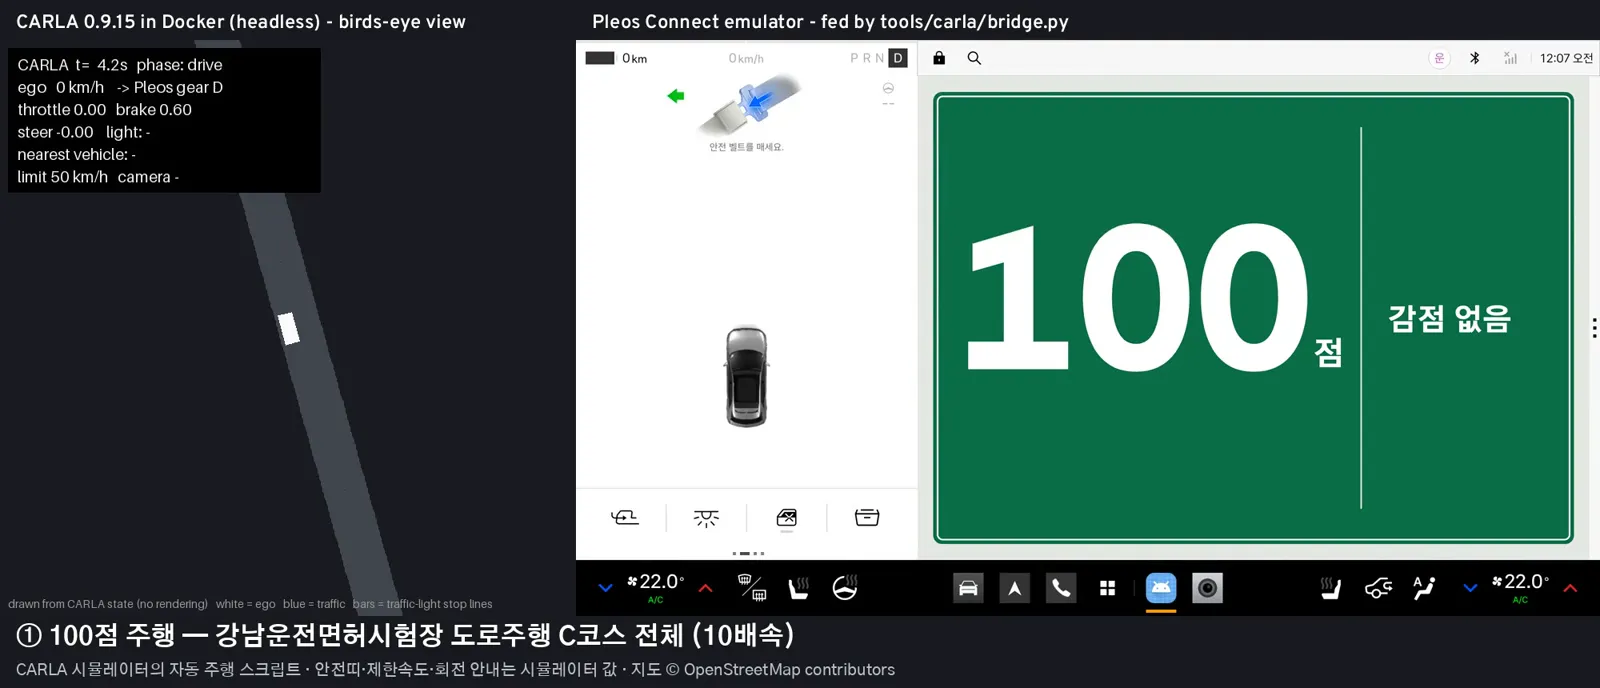
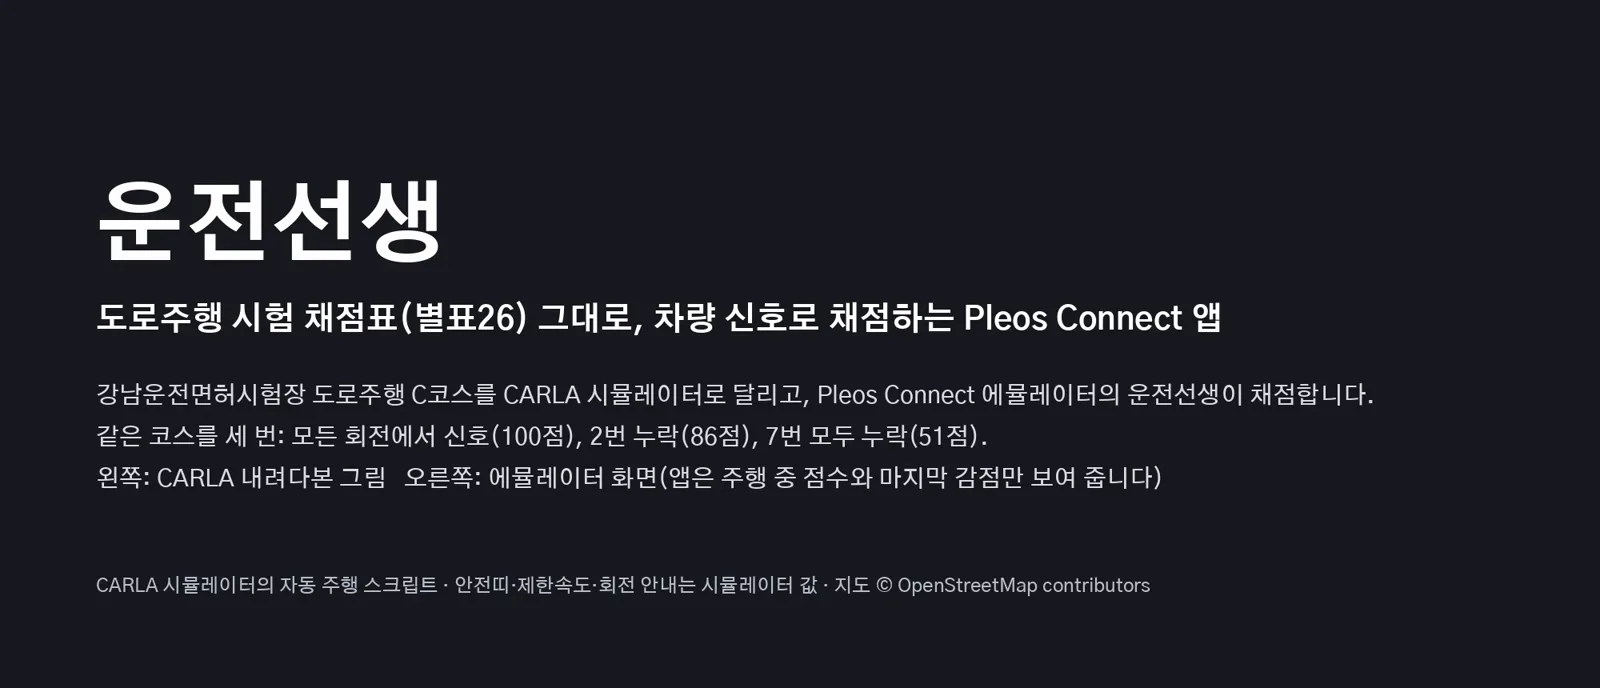
fix: apply the landing page's finish review
Drop the hero glow and the white card shells, disclose the simulator under
the head unit, keep costs and headings from breaking badly, re-cut the
summary poster without its caption band, add pause controls for the hero
loop and the map replay, and announce a run once instead of every frame.

diff --git a/site/site.css b/site/site.css
@@ -137,7 +137,7 @@ p { margin: 0; text-wrap: pretty; }
 
 /* ---------- hero ---------- */
 .hero {
-  position: relative; isolation: isolate; overflow: hidden;
+  position: relative; isolation: isolate; overflow-x: clip; /* sideways only: the head unit's shadow falls into the next section */
   padding: clamp(3rem, 1.6rem + 4.4vw, 5.25rem) var(--gutter) 0;
   text-align: center;
 }
@@ -149,13 +149,9 @@ p { margin: 0; text-wrap: pretty; }
   background-size: 72px 72px; background-position: center top;
   mask-image: radial-gradient(ellipse 70% 60% at 50% 38%, #000 30%, transparent 78%);
 }
-.hero::after { /* the guide-green light the head unit sits in */
-  content: ""; position: absolute; z-index: -1; left: 50%; bottom: -12%; width: min(1100px, 120vw); aspect-ratio: 2 / 1; translate: -50% 0;
-  background: radial-gradient(closest-side, rgb(11 107 71 / 0.2), rgb(10 79 160 / 0.06) 60%, transparent);
-  filter: blur(20px);
-}
 .hero__copy { max-width: 60rem; margin: 0 auto; }
 .hero h1 { font-size: var(--text-hero); letter-spacing: -0.04em; line-height: 1.1; }
+@media (max-width: 640px) { .hero h1 br { display: none; } }
 .hero__lede { margin: 1.4rem auto 0; max-width: 34em; font-size: var(--text-lede); color: var(--concrete-ink-muted); }
 .hero__actions { margin-top: 2.1rem; display: flex; gap: 0.75rem; justify-content: center; flex-wrap: wrap; }
 .hero__meta { margin-top: 1.1rem; font-size: 0.875rem; font-weight: 700; color: var(--concrete-ink-muted); letter-spacing: 0.01em; }
@@ -175,6 +171,20 @@ p { margin: 0; text-wrap: pretty; }
   to { opacity: 1; transform: none; }
 }
 
+.stage__caption { margin-top: 1rem; display: flex; justify-content: center; align-items: center; gap: 0.75rem; flex-wrap: wrap; font-size: 0.8125rem; font-weight: 700; color: var(--concrete-ink-muted); }
+.pause {
+  display: inline-flex; align-items: center; gap: 0.4rem; min-height: 2.25rem; padding: 0 0.85rem; border: 0; border-radius: 999px; cursor: pointer;
+  font: inherit; font-weight: 700; font-size: 0.8125rem; color: var(--concrete-ink); background: rgb(21 25 26 / 0.07);
+  transition: background-color var(--duration-fast);
+}
+.pause:hover { background: rgb(21 25 26 / 0.12); }
+.pause svg { width: 0.95rem; height: 0.95rem; fill: currentColor; }
+.pause .pause__play { display: none; }
+.pause[aria-pressed="true"] .pause__play { display: block; }
+.pause[aria-pressed="true"] .pause__stop { display: none; }
+.pause--night { color: var(--asphalt-ink); background: rgb(227 231 228 / 0.08); }
+.pause--night:hover { background: rgb(227 231 228 / 0.14); }
+.sr-only { position: absolute; width: 1px; height: 1px; margin: -1px; padding: 0; overflow: hidden; clip-path: inset(50%); white-space: nowrap; border: 0; }
 .float {
   position: absolute; z-index: 2; display: flex; align-items: center; gap: 0.75rem; text-align: left;
   opacity: 0; translate: 0 14px; filter: blur(4px);
@@ -190,7 +200,7 @@ p { margin: 0; text-wrap: pretty; }
 .float__text { display: grid; line-height: 1.35; }
 .float__text strong { font-weight: 800; font-size: 1rem; }
 .float__text span { font-size: 0.8125rem; color: var(--sign-white-muted); }
-.float__cost { margin-left: auto; padding-left: 0.5rem; font-family: var(--font-num); font-weight: 800; font-size: 1.5rem; }
+.float__cost { flex: none; white-space: nowrap; margin-left: auto; padding-left: 0.5rem; font-family: var(--font-num); font-weight: 800; font-size: 1.5rem; }
 .float--voice {
   right: -7%; top: 12%; padding: 0.8rem 1.1rem; max-width: 19rem;
   background: var(--plate-white); color: var(--plate-ink); border-radius: 16px; font-weight: 700; font-size: 0.9375rem; line-height: 1.4;
@@ -227,14 +237,14 @@ p { margin: 0; text-wrap: pretty; }
 .section-title { font-size: var(--text-h2); letter-spacing: -0.035em; }
 .features { max-width: calc(var(--content) + 2 * var(--gutter)); margin: 0 auto; padding: var(--space-section) var(--gutter) 0; }
 .bento { margin-top: clamp(2rem, 1.4rem + 2vw, 3.25rem); display: grid; grid-template-columns: repeat(12, minmax(0, 1fr)); gap: clamp(1rem, 0.6rem + 1.4vw, 1.75rem); }
-.feat { grid-column: span 6; display: grid; gap: 1.5rem; align-content: start; padding: clamp(1.25rem, 0.8rem + 1.6vw, 2rem); background: var(--plate-white); border-radius: 24px; box-shadow: 0 1px 0 rgb(21 25 26 / 0.04), 0 18px 40px -32px rgb(16 19 18 / 0.35); }
+.feat { grid-column: span 6; display: grid; gap: 1.25rem; align-content: start; }
 .feat:nth-child(2) { grid-column: span 5; }
 .feat:nth-child(3) { grid-column: span 7; }
-.feat--wide { grid-column: 1 / -1; grid-template-columns: minmax(0, 1.45fr) minmax(0, 1fr); align-items: center; gap: clamp(1.5rem, 1rem + 3vw, 4rem); background: var(--concrete); box-shadow: none; padding: clamp(1.25rem, 0.8rem + 2vw, 2.75rem); }
-.feat--honest { grid-column: 1 / -1; background: transparent; box-shadow: inset 0 0 0 2px rgb(21 25 26 / 0.12); }
+.feat--wide { grid-column: 1 / -1; grid-template-columns: minmax(0, 1.45fr) minmax(0, 1fr); align-items: center; gap: clamp(1.5rem, 1rem + 3vw, 4rem); background: var(--concrete); border-radius: 24px; padding: clamp(1.25rem, 0.8rem + 2vw, 2.75rem); }
+.feat--honest { grid-column: 1 / -1; padding: clamp(1.25rem, 0.8rem + 1.6vw, 2rem); border-radius: 24px; box-shadow: inset 0 0 0 2px rgb(21 25 26 / 0.12); }
 .feat h3 { font-size: var(--text-h3); letter-spacing: -0.02em; }
 .feat--wide h3 { font-size: clamp(1.625rem, 1.2rem + 1.6vw, 2.5rem); letter-spacing: -0.03em; }
-.feat__text p { margin-top: 0.75rem; color: var(--concrete-ink-muted); max-width: 36em; }
+.feat__text p { margin-top: 0.6rem; color: var(--concrete-ink-muted); max-width: 36em; }
 .quote { display: flex; gap: 0.7rem; align-items: flex-start; margin-top: 1.4rem !important; padding: 1rem 1.1rem; border-radius: 14px; background: var(--plate-white); color: var(--concrete-ink) !important; font-weight: 700; font-size: 0.9375rem; }
 .quote svg { flex: none; width: 1.4rem; height: 1.4rem; margin-top: 0.1rem; fill: none; stroke: var(--guide-green); stroke-width: 2; stroke-linecap: round; stroke-linejoin: round; }
 .quote svg path:first-child { fill: var(--guide-green); }
@@ -270,7 +280,8 @@ p { margin: 0; text-wrap: pretty; }
 .run__label { font-weight: 700; font-size: 0.9375rem; }
 .run[aria-pressed="true"] { background: #1E2423; box-shadow: inset 0 0 0 2px var(--signal-green); }
 .run--fail[aria-pressed="true"] { box-shadow: inset 0 0 0 2px var(--caution-yellow); }
-.readout { margin-top: 2rem; display: flex; align-items: flex-end; gap: 1.75rem; }
+.readout { margin-top: 2rem; display: flex; align-items: flex-end; gap: 1.75rem; flex-wrap: wrap; }
+.readout .pause { margin-left: auto; align-self: center; }
 .readout__score { font-family: var(--font-num); font-weight: 800; font-size: clamp(4rem, 2.6rem + 5vw, 6.5rem); line-height: 0.85; letter-spacing: -0.04em; font-variant-numeric: tabular-nums; color: var(--signal-green); transition: color var(--duration-normal); }
 .readout__score small { font-family: var(--font-ko); font-size: 0.28em; letter-spacing: 0; margin-left: 0.15em; color: var(--asphalt-ink-muted); }
 .readout.is-failing .readout__score { color: var(--caution-yellow); }
@@ -344,7 +355,7 @@ p { margin: 0; text-wrap: pretty; }
 .prow__name { display: grid; line-height: 1.4; }
 .prow__name strong { font-weight: 800; }
 .prow__name span { font-size: 0.875rem; color: var(--sign-white-muted); }
-.prow__cost { font-family: var(--font-num); font-weight: 800; font-size: 1.25rem; padding-top: 0.05rem; }
+.prow__cost { white-space: nowrap; font-family: var(--font-num); font-weight: 800; font-size: 1.25rem; padding-top: 0.05rem; }
 .prow--chapter { grid-template-columns: 3.3rem minmax(0, 1fr) auto; }
 .prow__play { width: 1.25rem; height: 1.25rem; margin-top: 0.15rem; fill: var(--sign-white); opacity: 0.75; }
 .empty { padding: 1.25rem 0.25rem 0.5rem; }
@@ -359,7 +370,7 @@ p { margin: 0; text-wrap: pretty; }
 .step .shot { width: 100%; }
 .step__road { --pad: clamp(0.6rem, 0.3rem + 1vw, 1rem); position: relative; isolation: isolate; justify-self: stretch; display: flex; align-items: center; height: 2.75rem; margin: 1.25rem 0 1rem; padding-left: 0.6rem; }
 .step__road::before { /* the road the steps sit on, joined across the gaps */
-  content: ""; position: absolute; z-index: -1; inset: 0 calc(-1 * var(--pad));
+  content: ""; position: absolute; z-index: -1; inset: 0 calc(-1 * var(--pad) - 1px);
   background: linear-gradient(to bottom, transparent calc(50% - 4px), var(--caution-yellow) calc(50% - 4px) calc(50% - 1.5px),
     transparent calc(50% - 1.5px) calc(50% + 1.5px), var(--caution-yellow) calc(50% + 1.5px) calc(50% + 4px), transparent calc(50% + 4px)), var(--road);
 }

diff --git a/site/site.js b/site/site.js
@@ -40,6 +40,21 @@ function svg(tag, attrs = {}) {
   return node;
 }
 
+/** A pause/play pill for looping motion (WCAG 2.2.2). onChange(paused) runs on every press. */
+function pauseButton(name, onChange) {
+  const button = document.querySelector(`[data-pause="${name}"]`);
+  if (!button) return { paused: () => false };
+  const label = button.querySelector("span");
+  let paused = false;
+  button.addEventListener("click", () => {
+    paused = !paused;
+    button.setAttribute("aria-pressed", String(paused));
+    label.textContent = paused ? "재생" : "멈춤";
+    onChange(paused);
+  });
+  return { paused: () => paused };
+}
+
 /* ---------- hero: the plates appear when the app on screen deducts ---------- */
 function initHero() {
   const video = document.querySelector(".unit__video");
@@ -55,7 +70,11 @@ function initHero() {
   }
   video.addEventListener("timeupdate", () => show(video.currentTime >= PENALTY_ON && video.currentTime < PENALTY_OFF));
   const play = () => video.play().catch(() => show(true)); // autoplay refused: keep the poster and the plates
-  new IntersectionObserver(([entry]) => (entry.isIntersecting ? play() : video.pause()), { threshold: 0.05 }).observe(video);
+  const control = pauseButton("hero", (paused) => (paused ? video.pause() : play()));
+  new IntersectionObserver(([entry]) => {
+    if (!entry.isIntersecting) video.pause();
+    else if (!control.paused()) play();
+  }, { threshold: 0.05 }).observe(video);
 }
 
 /* ---------- course replay ---------- */
@@ -80,15 +99,29 @@ async function initReplay() {
   }
   const scene = drawMap(map, data);
   const replay = createReplay(scene, data);
+  const status = document.querySelector('[data-readout="status"]');
+  const control = pauseButton("replay", (paused) => (paused ? replay.pause() : replay.resume()));
+  const announce = (id) => {
+    const run = RUNS[id];
+    const missed = run.missed.length ? `${run.missed.join(", ")}번째 회전에서 방향지시등을 켜지 않아 감점 ${run.missed.length}건` : "일곱 번의 회전 모두 신호, 감점 없음";
+    status.textContent = `${run.score}점 주행: ${missed}. ${run.score >= 70 ? "합격" : "불합격"}.`;
+  };
   document.querySelectorAll(".run").forEach((button) => {
     button.addEventListener("click", () => {
       document.querySelectorAll(".run").forEach((b) => b.setAttribute("aria-pressed", String(b === button)));
-      replay.select(button.dataset.run);
+      replay.select(button.dataset.run, control.paused());
+      announce(button.dataset.run);
     });
   });
-  replay.select("100");
-  new IntersectionObserver(([entry]) => (entry.isIntersecting ? replay.resume() : replay.pause()), { threshold: 0.2 }).observe(map);
-  document.addEventListener("visibilitychange", () => (document.hidden ? replay.pause() : replay.resume()));
+  replay.select("100", false);
+  const visible = { map: false };
+  new IntersectionObserver(([entry]) => {
+    visible.map = entry.isIntersecting;
+    if (!visible.map) replay.pause(); else if (!control.paused()) replay.resume();
+  }, { threshold: 0.2 }).observe(map);
+  document.addEventListener("visibilitychange", () => {
+    if (document.hidden) replay.pause(); else if (visible.map && !control.paused()) replay.resume();
+  });
 }
 
 function drawMap(map, data) {
@@ -154,7 +187,8 @@ function createReplay(scene, data) {
   const turnAt = data.turns.map((t) => (t.s / data.length) * total);
   scene.lit.style.strokeDasharray = `${total} ${total}`;
   const readout = document.querySelector(".readout");
-  const field = (name) => document.querySelector(`[data-readout="${name}"]`);
+  const fields = Object.fromEntries(["score", "count", "turn"].map((name) => [name, document.querySelector(`[data-readout="${name}"]`)]));
+  const write = (name, value) => { if (fields[name].textContent !== String(value)) fields[name].textContent = String(value); };
   let run = RUNS[100];
   let start = 0, raf = 0, running = false, pausedAt = 0;
 
@@ -172,9 +206,9 @@ function createReplay(scene, data) {
       scene.turns[i].classList.toggle("is-miss", done && missed);
       scene.callouts[i].classList.toggle("is-on", done && missed && along - at < total * 0.12);
     });
-    field("score").textContent = String(score);
-    field("count").textContent = String(count);
-    field("turn").textContent = String(passed);
+    write("score", score);
+    write("count", count);
+    write("turn", passed);
     readout.classList.toggle("is-failing", score < 70);
   }
   function frame(now) {
@@ -185,10 +219,10 @@ function createReplay(scene, data) {
     raf = requestAnimationFrame(frame);
   }
   return {
-    select(id) {
+    select(id, paused) {
       run = RUNS[id];
       cancelAnimationFrame(raf);
-      if (reduceMotion.matches) { render(total); running = false; return; }
+      if (reduceMotion.matches || paused) { render(total); running = false; pausedAt = paused ? performance.now() : 0; start = pausedAt - REPLAY_MS; return; }
       start = performance.now(); pausedAt = 0; running = true;
       raf = requestAnimationFrame(frame);
     },

diff --git a/site/index.html b/site/index.html
@@ -39,7 +39,7 @@
   <main id="main">
     <section class="hero" id="top" aria-labelledby="hero-title">
       <div class="hero__copy">
-        <h1 id="hero-title">시험장에 가기 전에<br>어디서 감점되는지 압니다</h1>
+        <h1 id="hero-title">시험장에 가기 전에 <br>어디서 감점되는지 압니다</h1>
         <p class="hero__lede">운전선생은 차량 신호로 도로주행 시험 채점표의 항목과 배점 그대로 운전을 채점합니다. 감점이 나는 순간, 화면 한 줄과 음성으로 알려 드려요.</p>
         <div class="hero__actions">
           <a class="btn btn--route" href="media/driveteacher-0.1.0-release.apk" download>
@@ -70,6 +70,9 @@
           <span>“진로변경 신호 불이행, 7점 감점되었습니다.”</span>
         </div>
       </div>
+      <p class="stage__caption">화면: CARLA 시뮬레이터 주행을 넣은 Pleos Connect 에뮬레이터
+        <button class="pause" type="button" data-pause="hero" aria-pressed="false"><svg class="pause__stop" viewBox="0 0 24 24" aria-hidden="true"><path d="M7 5h3.5v14H7zM13.5 5H17v14h-3.5z"/></svg><svg class="pause__play" viewBox="0 0 24 24" aria-hidden="true"><path d="M8 5.5v13l10-6.5z"/></svg><span>멈춤</span></button>
+      </p>
     </section>
 
     <section class="items" aria-labelledby="items-title">
@@ -130,20 +133,22 @@
     <section class="replay" id="replay" aria-labelledby="replay-title">
       <div class="replay__inner">
         <div class="replay__side">
-          <h2 id="replay-title">강남운전면허시험장 C코스를 세 번 달렸습니다</h2>
+          <h2 id="replay-title">강남운전면허시험장 <br>C코스를 세&nbsp;번 달렸습니다</h2>
           <p>시험장 주변 도로를 OpenStreetMap으로 CARLA 시뮬레이터에 옮기고, 같은 운전 스크립트로 C코스를 세 번 달렸습니다. 다른 건 일곱 번의 회전에서 방향지시등을 켰는지뿐이에요.</p>
           <div class="runs" role="group" aria-label="주행 고르기">
             <button class="run run--pass" type="button" data-run="100" aria-pressed="true"><span class="run__score">100</span><span class="run__label">합격 · 신호 7번 모두</span></button>
             <button class="run run--pass" type="button" data-run="86" aria-pressed="false"><span class="run__score">86</span><span class="run__label">합격 · 2번 누락</span></button>
             <button class="run run--fail" type="button" data-run="51" aria-pressed="false"><span class="run__score">51</span><span class="run__label">불합격 · 7번 누락</span></button>
           </div>
-          <div class="readout" aria-live="polite">
+          <p class="sr-only" aria-live="polite" data-readout="status"></p>
+          <div class="readout">
             <div class="readout__score"><span data-readout="score">100</span><small>점</small></div>
             <dl class="readout__facts">
               <div><dt>회전</dt><dd><span data-readout="turn">0</span> / 7</dd></div>
               <div><dt>감점</dt><dd><span data-readout="count">0</span>건</dd></div>
               <div><dt>거리</dt><dd>5.3 km</dd></div>
             </dl>
+            <button class="pause pause--night" type="button" data-pause="replay" aria-pressed="false"><svg class="pause__stop" viewBox="0 0 24 24" aria-hidden="true"><path d="M7 5h3.5v14H7zM13.5 5H17v14h-3.5z"/></svg><svg class="pause__play" viewBox="0 0 24 24" aria-hidden="true"><path d="M8 5.5v13l10-6.5z"/></svg><span>멈춤</span></button>
           </div>
         </div>
         <figure class="map">

diff --git a/.impeccable/surfaces/site-index-html.md b/.impeccable/surfaces/site-index-html.md
@@ -21,5 +21,5 @@ THESIS: 핀테크 랜딩의 가운데 헤드라인과 떠오르는 기기를 차
 OWN-WORLD: 앱의 도로표지판 체계 그대로. 낮은 콘크리트 바탕에 안내표지 초록·경로 파랑 판(흰 안쪽 선), 노란 주의, 주황 작업구역(채점 안 함만), 흰 보조표지 판. 지도 구간만 밤 아스팔트에 신호등 초록 빛. 숫자 Overpass, 한글 Gothic A1. 차선 점선이 구분선.
 STORY: 방문자는 첫 화면에서 앱이 감점을 잡는 순간을 보고, 지도에서 같은 코스를 세 번 달린 결과가 회전마다 어떻게 갈렸는지 보고, 영상으로 확인한 뒤 APK를 받는다.
 FIRST VIEWPORT: 상단 바(아이콘, 운전선생, 메뉴, APK 받기). 가운데 두 줄 헤드라인과 한 줄 설명, CTA 두 개(APK 받기 파랑, 영상 보기 테두리). 그 아래 화면 폭 약 60%의 가로형 헤드유닛 화면이 뒤로 기운 채 떠오르며 바로 서고, 안에서 앱이 100점에서 93점으로 감점한다. 기기 옆에 감점 번호판과 음성 문구 판이 떠 있다.
-FORM: 사용자 지정 레퍼런스 결합(핀테크 랜딩 + 지도 시각화) 안의 기존 도로표지판 세계. 서명 상호작용: 지도 코스 리플레이(100/86/51 전환, 차가 경로를 따라가며 놓친 회전에서 −7이 뜨고 점수가 내려감)와 감점 줄 클릭으로 영상 그 순간 재생. seed: none (unavailable)
+FORM: 사용자 지정 레퍼런스 결합(핀테크 랜딩 + 지도 시각화) 안의 기존 도로표지판 세계. 서명 상호작용: 지도 코스 리플레이(100/86/51 전환, 차가 경로를 따라가며 놓친 회전에서 −7이 뜨고 점수가 내려감)와 감점 줄 클릭으로 영상 그 순간 재생. seed: none (roll skipped: the user pinned two Dribbble references and the established road-sign world)
 FINISH: unreviewed and undocumented is unfinished; this build ends with the finish review, the verdict, DESIGN.md, and every shipping raster carrying its provenance
